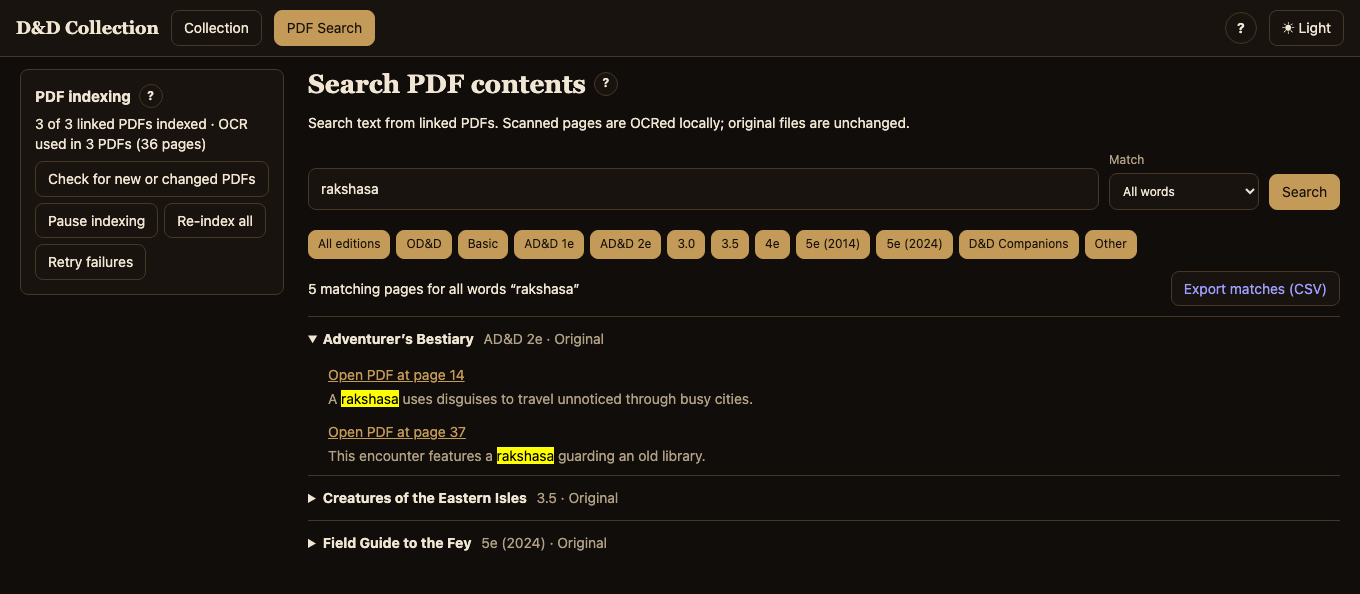
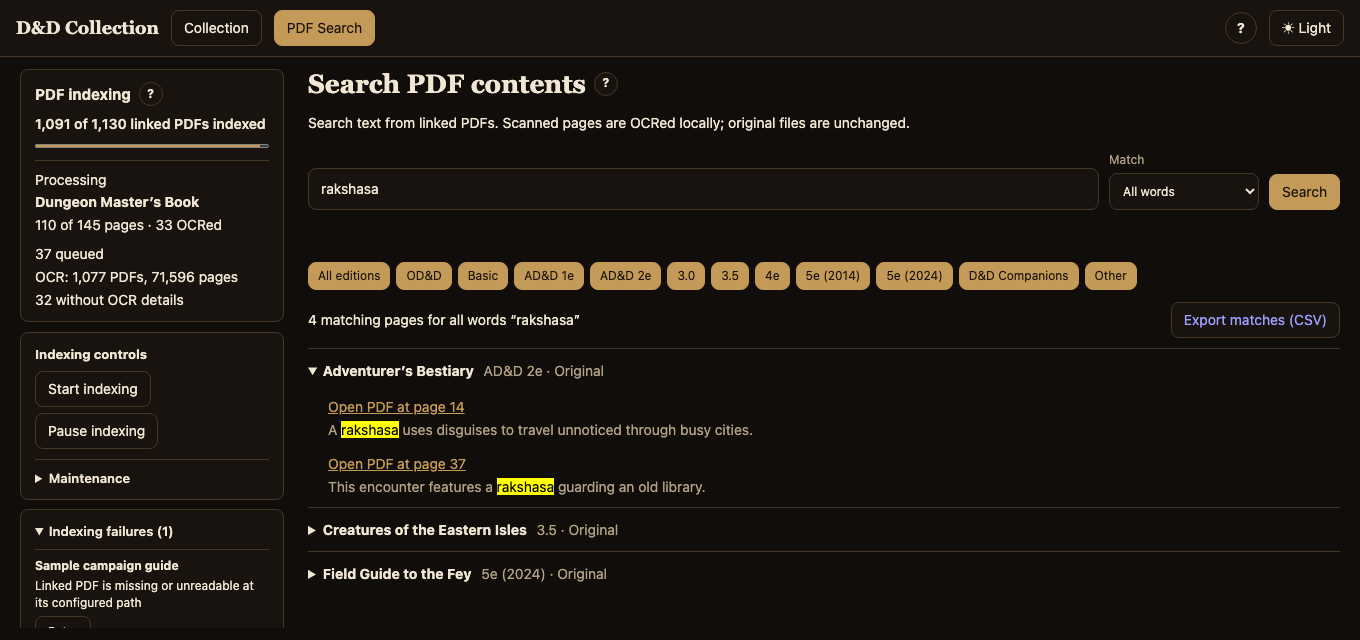
Improve PDF indexing sidebar readability

diff --git a/static/app.js b/static/app.js
@@ -317,23 +317,9 @@ async function refreshPdfIndexStatus() {
   let pollDelay = PDF_INDEX_IDLE_POLL_MS;
   try {
     const status = await api.pdfIndexStatus();
-    const parts = [`${status.done} of ${status.linked} linked PDFs indexed`];
-    if (status.processing && status.current) {
-      parts.push(`Processing ${status.current.title} (${status.current.indexed_pages}/${status.current.page_count} pages; ${status.current.ocr_pages || 0} OCRed)`);
-    } else if (status.queued) {
-      parts.push(`${status.queued} queued`);
-    }
-    if (status.not_indexed) parts.push(`${status.not_indexed} not started`);
-    if (status.error) parts.push(`${status.error} failed`);
-    if (status.paused && (status.processing || status.queued)) parts.push('paused');
-    if (!status.worker_online && (status.processing || status.queued)) parts.push('OCR worker offline');
-    parts.push(`OCR used in ${status.ocr_books} PDF${status.ocr_books === 1 ? '' : 's'} (${status.ocr_pages} page${status.ocr_pages === 1 ? '' : 's'})`);
-    if (status.ocr_unrecorded) {
-      parts.push(`${status.ocr_unrecorded} PDF${status.ocr_unrecorded === 1 ? '' : 's'} without OCR details`);
-    }
-    $('#pdf-index-status').textContent = parts.join(' · ');
-    $('#pdf-index-actions').hidden = !meta.can_edit;
     const active = status.queued > 0 || status.processing > 0;
+    renderPdfIndexStatus(status, active);
+    $('#pdf-index-actions').hidden = !meta.can_edit;
     if (active && !status.paused && status.worker_online) pollDelay = PDF_INDEX_ACTIVE_POLL_MS;
     const needsIndex = status.not_indexed > 0 || status.error > 0 || status.ocr_unrecorded > 0;
     $('#index-pdfs').textContent = status.paused && active
@@ -344,13 +330,10 @@ async function refreshPdfIndexStatus() {
     $('#pause-pdfs').disabled = !meta.can_edit || status.paused || !active;
     $('#reindex-pdfs').disabled = !meta.can_edit || active || status.linked === 0;
     $('#retry-pdfs').disabled = !meta.can_edit || status.error === 0 || active;
-    $('#pdf-index-failures').innerHTML = status.failures.map(f => `
-      <div class="pdf-index-failure">
-        <span><b>${esc(f.title)}</b>: ${esc(f.error || 'Indexing failed')}</span>
-        ${meta.can_edit ? `<button class="secondary" type="button" data-retry-pdf="${esc(f.release_id)}">Retry</button>` : ''}
-      </div>`).join('');
   } catch (error) {
     $('#pdf-index-status').textContent = `Could not load PDF index status: ${error.message}`;
+    $('#pdf-index-progress').hidden = true;
+    $('#pdf-index-details').hidden = true;
   } finally {
     pdfIndexRefreshing = false;
     const delay = pdfIndexRefreshPending ? 0 : pollDelay;
@@ -359,6 +342,48 @@ async function refreshPdfIndexStatus() {
       pdfSearchPoll = setTimeout(refreshPdfIndexStatus, delay);
     }
   }
+}
+
+function renderPdfIndexStatus(status, active) {
+  const number = value => value.toLocaleString();
+  const overview = $('#pdf-index-status');
+  const count = `${number(status.done)} of ${number(status.linked)} linked PDFs indexed`;
+  if (overview.textContent !== count) overview.textContent = count;
+  const progress = $('#pdf-index-progress');
+  progress.hidden = !status.linked;
+  progress.max = status.linked || 1;
+  progress.value = status.done;
+  $('#pdf-index-details').hidden = false;
+
+  const current = status.processing ? status.current : null;
+  const activity = [
+    status.paused && active ? 'Paused' : '',
+    !status.worker_online && active ? 'OCR worker offline' : '',
+  ].filter(Boolean).join(' · ');
+  $('#pdf-index-current').hidden = !current && !activity;
+  $('#pdf-index-activity').textContent = activity || (current ? 'Processing' : '');
+  $('#pdf-index-current-title').textContent = current?.title || '';
+  $('#pdf-index-current-pages').textContent = current
+    ? `${number(current.indexed_pages)} of ${number(current.page_count)} pages · ${number(current.ocr_pages ?? 0)} OCRed`
+    : '';
+  const metrics = [
+    status.queued ? `${number(status.queued)} queued` : '',
+    status.not_indexed ? `${number(status.not_indexed)} not started` : '',
+    `OCR: ${number(status.ocr_books)} PDF${status.ocr_books === 1 ? '' : 's'}, ${number(status.ocr_pages)} page${status.ocr_pages === 1 ? '' : 's'}`,
+    status.ocr_unrecorded ? `${number(status.ocr_unrecorded)} without OCR details` : '',
+  ];
+  $('#pdf-index-metrics').innerHTML = metrics.filter(Boolean).map(text => `<li>${text}</li>`).join('');
+
+  $('#pdf-index-issues').hidden = !status.error;
+  $('#pdf-index-issues-label').textContent = `Indexing failures (${number(status.error)})`;
+  const failures = $('#pdf-index-failures');
+  const markup = status.failures.map(f => `
+    <li class="pdf-index-failure">
+      <strong>${esc(f.title)}</strong>
+      <span class="rmeta">${esc(f.error || 'Indexing failed')}</span>
+      ${meta.can_edit ? `<button class="secondary" type="button" data-retry-pdf="${esc(f.release_id)}">Retry</button>` : ''}
+    </li>`).join('');
+  if (failures.innerHTML !== markup) failures.innerHTML = markup;
 }
 
 async function startPdfIndex(mode) {

diff --git a/static/index.html b/static/index.html
@@ -164,20 +164,42 @@
             <button class="primary" type="submit">Search</button>
           </form>
         </div>
-        <section class="pdf-index-panel">
-          <div class="helpable-heading">
-            <h3>PDF indexing</h3>
-            <button class="icon-btn help-trigger" type="button" data-help-topic="pdf-indexing" aria-label="Help: PDF indexing" title="Help: PDF indexing">?</button>
-          </div>
-          <div id="pdf-index-status" class="rmeta" aria-live="polite">Loading index status…</div>
-          <div id="pdf-index-actions" class="actions" hidden>
-            <button id="index-pdfs" class="secondary" type="button">Start indexing</button>
-            <button id="pause-pdfs" class="secondary" type="button">Pause indexing</button>
-            <button id="reindex-pdfs" class="secondary" type="button">Re-index all</button>
-            <button id="retry-pdfs" class="secondary" type="button">Retry failures</button>
-          </div>
-          <div id="pdf-index-failures" class="pdf-index-failures"></div>
-        </section>
+        <aside class="pdf-index-panel" aria-labelledby="pdf-index-title">
+          <section class="pdf-index-card">
+            <div class="helpable-heading">
+              <h3 id="pdf-index-title">PDF indexing</h3>
+              <button class="icon-btn help-trigger" type="button" data-help-topic="pdf-indexing" aria-label="Help: PDF indexing" title="Help: PDF indexing">?</button>
+            </div>
+            <p id="pdf-index-status" role="status">Loading index status...</p>
+            <progress id="pdf-index-progress" aria-label="Linked PDFs indexed" hidden></progress>
+            <div id="pdf-index-details" hidden>
+              <div id="pdf-index-current" class="pdf-index-current" hidden>
+                <span id="pdf-index-activity" class="rmeta"></span>
+                <strong id="pdf-index-current-title"></strong>
+                <span id="pdf-index-current-pages" class="rmeta"></span>
+              </div>
+              <ul id="pdf-index-metrics" class="pdf-index-metrics rmeta"></ul>
+            </div>
+          </section>
+          <section id="pdf-index-actions" class="pdf-index-card" hidden>
+            <h4>Indexing controls</h4>
+            <div class="actions">
+              <button id="index-pdfs" class="secondary" type="button">Start indexing</button>
+              <button id="pause-pdfs" class="secondary" type="button">Pause indexing</button>
+            </div>
+            <details class="pdf-index-maintenance">
+              <summary>Maintenance</summary>
+              <div class="actions">
+                <button id="reindex-pdfs" class="secondary" type="button">Re-index all</button>
+                <button id="retry-pdfs" class="secondary" type="button">Retry failures</button>
+              </div>
+            </details>
+          </section>
+          <details id="pdf-index-issues" class="pdf-index-card" hidden>
+            <summary id="pdf-index-issues-label">Indexing failures</summary>
+            <ul id="pdf-index-failures" class="pdf-index-failures"></ul>
+          </details>
+        </aside>
         <div class="pdf-search-output" id="pdf-search-output" hidden>
           <div id="pdf-search-editions" class="pdf-search-editions" role="group" aria-label="Filter results by edition"></div>
           <div class="pdf-search-toolbar">

diff --git a/static/styles.css b/static/styles.css
@@ -191,17 +191,22 @@ body.pdf-mode #filters, body.pdf-mode #toggle-filters { display: none !important
   min-width: 150px; padding: 9px; border: 1px solid var(--line);
   border-radius: var(--radius); background: var(--panel); color: var(--ink);
 }
-.pdf-index-panel { padding: 14px; border: 1px solid var(--line); border-radius: var(--radius); background: var(--panel); }
+.pdf-index-panel { display: grid; gap: 10px; min-width: 0; }
+.pdf-index-card { padding: 12px 14px; border: 1px solid var(--line); border-radius: var(--radius); background: var(--panel); }
 .helpable-heading { display: flex; align-items: center; gap: 8px; }
 .helpable-heading h2, .helpable-heading h3 { margin: 0; }
 .helpable-heading h3 { font-size: 15px; }
-.pdf-index-panel > .helpable-heading { margin-bottom: 6px; }
 .helpable-heading .help-trigger { width: 24px; height: 24px; font-size: 12px; }
+.pdf-index-card h4 { margin: 0; font-size: 13px; }
+.pdf-index-card summary { cursor: pointer; font-size: 13px; font-weight: 600; }
+#pdf-index-status { margin: 8px 0 0; font-weight: 600; }
+#pdf-index-progress { display: block; width: 100%; height: 8px; margin-top: 8px; accent-color: var(--accent); }
+.pdf-index-current { display: grid; gap: 3px; padding-top: 9px; margin-top: 10px; border-top: 1px solid var(--line); overflow-wrap: anywhere; }
+.pdf-index-metrics { display: grid; gap: 3px; list-style: none; padding: 0; margin: 10px 0 0; }
 .pdf-index-panel .actions { display: flex; flex-wrap: wrap; gap: 6px; margin-top: 8px; }
-.pdf-index-failures { max-height: 180px; overflow-y: auto; }
-.pdf-index-failure { display: flex; align-items: flex-start; justify-content: space-between; gap: 8px; padding-top: 8px; font-size: 12px; }
-.pdf-index-failure b { color: var(--ink); }
-.pdf-index-failure button { flex: none; }
+.pdf-index-maintenance { margin-top: 10px; padding-top: 9px; border-top: 1px solid var(--line); }
+.pdf-index-failures { list-style: none; padding: 0; margin: 8px 0 0; max-height: 180px; overflow-y: auto; }
+.pdf-index-failure { display: grid; justify-items: start; gap: 4px; padding: 8px 0; border-top: 1px solid var(--line); font-size: 12px; overflow-wrap: anywhere; }
 .pdf-search-output { min-width: 0; }
 .pdf-search-editions { display: flex; flex-wrap: wrap; gap: 6px; margin: 16px 0 12px; }
 .pdf-search-editions button { padding: 5px 9px; font-size: 12px; }
@@ -225,7 +230,7 @@ body.pdf-mode #filters, body.pdf-mode #toggle-filters { display: none !important
     align-items: start;
   }
   .has-search > .pdf-search-controls { grid-area: controls; }
-  .has-search > .pdf-index-panel { grid-area: index; position: sticky; top: calc(var(--topbar-h) + 12px); }
+  .has-search > .pdf-index-panel { grid-area: index; position: sticky; top: calc(var(--topbar-h) + 12px); max-height: calc(100vh - var(--topbar-h) - 24px); overflow-y: auto; }
   .has-search > .pdf-search-output { grid-area: results; }
   .has-search .pdf-search-editions { margin-top: 0; }
 }

diff --git a/README.md b/README.md
@@ -40,9 +40,9 @@ Use the **?** buttons in the app for contextual help, version information, and r
 
 In the [Docker setup](#docker-hosting), open **PDF Search** and choose **Start indexing** as an editor. The worker indexes embedded text and uses local OCR for scanned pages. Search for all words, any word, or an exact phrase, then toggle editions to refine the results. Matches are grouped by printing in alphabetical book-title order. Expand a printing to see snippets and open the PDF at a matching page. **Export matches (CSV)** lists every matching PDF page for the selected editions, including results not yet loaded on screen.
 
-Indexing only starts when requested. Editors can pause, resume, re-index, or retry failures. Readers can use the completed index. On wide screens, indexing status moves to the left of an active search. Recorded OCR page counts appear on each printing in the book details drawer. Text stays in your database, and the source PDFs are never modified.
+Indexing only starts when requested. Editors can pause or resume under **Indexing controls**, use **Maintenance** to re-index or retry failures in bulk, or expand **Indexing failures** to inspect and retry individual PDFs. Readers can use the completed index. On wide screens, indexing status moves to the left of an active search. Recorded OCR page counts appear on each printing in the book details drawer. Text stays in your database, and the source PDFs are never modified.
 
-![PDF search for rakshasa, with indexing status on the left, edition toggles and CSV export above the results, and one book printing expanded to show two matching pages](./docs/media/search-pdf.png)
+![PDF search for rakshasa, with separate progress, controls, and failure cards on the left and an expanded book printing showing two matching pages on the right](./docs/media/search-pdf.png)
 
 ## Extending the catalog
 
